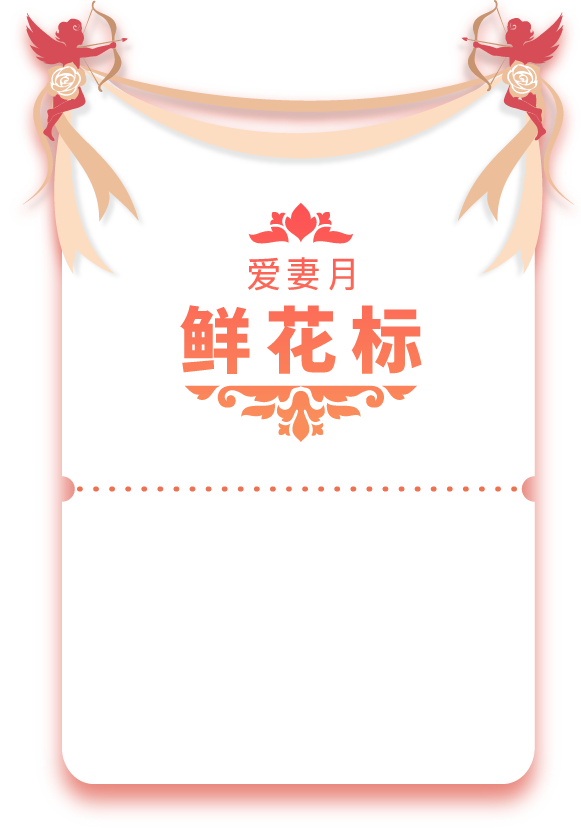
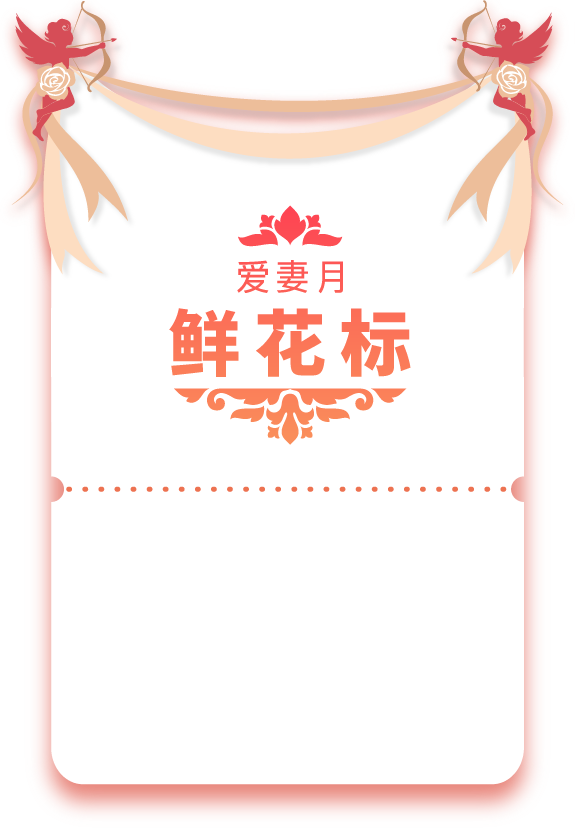
提交7月

Changed region(s): [[0.0, 0.0, 0.9757, 0.9662], [0.2957, 0.2415, 0.7391, 0.5435]]

diff --git a/static/styles/pc_activity/love_on_july.css b/static/styles/pc_activity/love_on_july.css
@@ -1,1 +1,1 @@
-.clear{clear:both}.body_wrap .banner{width:100%;height:464px;background:url("/static/imgs/pc_activity/love_on_july/banner.png") no-repeat center center;display:block}.body_wrap .banner .banner_main{width:1000px;margin:0 auto;display:block;height:464px;padding-top:349px;padding-left:253px}.body_wrap .banner .banner_main .act_time{line-height:22px;color:#e26659;font-size:14px}.body_wrap .section{width:100%}.body_wrap .section .section_main{width:1000px;margin:0 auto;display:block}.body_wrap .section_1{background:#fdf1e7}.body_wrap .section_1 .title_img{width:238px;height:131px;margin:0 auto;display:block;padding:45px 0 34px}.body_wrap .section_1 .section_img{display:block;margin:0 auto;width:52px;height:21px}.body_wrap .section_1 .section_1_text{width:100%;text-align:center;line-height:24px;color:#f26b6b;font-size:14px;padding-bottom:16px}.body_wrap .section_2{width:100%;background:url("/static/imgs/pc_activity/love_on_july/section_2.jpg") no-repeat center center;height:481px;display:block}.body_wrap .section_2 .section_2_text{width:100%;line-height:24px;color:#f26b6b;font-size:14px;padding-top:153px;text-align:center}.body_wrap .section_3{width:100%;background:url("/static/imgs/pc_activity/love_on_july/section_3.jpg") no-repeat center top;padding-bottom:20px}.body_wrap .section_3 .title_img{width:518px;display:block;margin:0 auto}.body_wrap .section_3 .section_3_text1{padding:7px 0 4px;font-size:14px;color:#ef6565;line-height:22px;text-align:center}.body_wrap .section_3 .two_biao{width:518px;margin:0 auto;display:block;height:358px}.body_wrap .section_3 .two_biao .biao{width:242px;display:block;height:358px;padding:115px 41px 0 46px}.body_wrap .section_3 .two_biao .left_biao{float:left;background:url("/static/imgs/pc_activity/love_on_july/section_3_img2.png") no-repeat center center}.body_wrap .section_3 .two_biao .right_biao{float:right;background:url("/static/imgs/pc_activity/love_on_july/section_3_img3.png") no-repeat center center}.body_wrap .section_3 .two_biao .title_text{width:100%;color:#fd5655;font-size:14px;line-height:22px;padding-bottom:90px;text-align:center}.body_wrap .section_3 .two_biao .biao_text{font-size:13px;line-height:20px;color:#ed7251}.body_wrap .section_3 .two_biao .investment_wrap{width:100%;font-size:13px;color:#ed7251;line-height:20px;text-indent:2em}.body_wrap .section_3 .two_biao .investment_wrap span{font-weight:bold}.body_wrap .section_3 .rule_wrap{width:806px;padding:0 28px 0 28px;display:block;margin:0 auto}.body_wrap .section_3 .rule_wrap .title_text{width:100%;color:#e5574c;font-size:14px;line-height:22px}.body_wrap .section_3 .rule_wrap dl{color:#e5574c;font-size:14px;width:100%;position:relative}.body_wrap .section_3 .rule_wrap dl dt{width:20px;position:absolute;left:0;top:0;line-height:20px;display:block}.body_wrap .section_3 .rule_wrap dl dd{padding-left:20px;width:100%;line-height:20px}.body_wrap .section_3 .line{width:518px;height:16px;display:block;margin:20px auto 30px;background:url("/static/imgs/pc_activity/love_on_july/section_3_img4.png") no-repeat center center}.body_wrap .section_3 .section_3_text2{padding:14px 0 20px}.body_wrap .section_3 .act_ranking{width:518px;margin:0 auto;display:block}.body_wrap .section_3 .act_ranking .box{width:100%;display:block;height:166px;padding-bottom:16px;position:relative}.body_wrap .section_3 .act_ranking .box dl{width:111px;display:block;position:absolute;left:68px;top:43px;color:#ef6565;text-align:center}.body_wrap .section_3 .act_ranking .box dl dt{font-size:65px;line-height:60px;font-weight:100;height:65px}.body_wrap .section_3 .act_ranking .box dl dt span{font-size:18px;line-height:60px;padding-left:2px}.body_wrap .section_3 .act_ranking .box dl dd{font-size:13px;line-height:20px}.body_wrap .section_3 .act_ranking .box .act_text{width:158px;position:absolute;left:206px;top:55px;font-size:14px;line-height:20px;text-align:center}.body_wrap .section_3 .act_ranking .box_1{background:url("/static/imgs/pc_activity/love_on_july/section_3_img6.png") no-repeat center center}.body_wrap .section_3 .act_ranking .box_1 .act_text{color:#fb8ba1}.body_wrap .section_3 .act_ranking .box_2{background:url("/static/imgs/pc_activity/love_on_july/section_3_img7.png") no-repeat center center}.body_wrap .section_3 .act_ranking .box_2 .act_text{color:#5a99ff}.body_wrap .section_3 .act_ranking .box_3{background:url("/static/imgs/pc_activity/love_on_july/section_3_img8.png") no-repeat center center}.body_wrap .section_3 .act_ranking .box_3 .act_text{color:#f66;top:73px}.body_wrap .section_3 .now_ranking{width:644px;display:block;margin:0 auto;height:332px;background:url("/static/imgs/pc_activity/love_on_july/section_3_img9.png") no-repeat center center}.body_wrap .section_3 .now_ranking .title_text{width:100%;line-height:36px;color:#fff;font-size:24px;text-align:center;padding-left:7px}.body_wrap .section_3 .now_ranking .act_time{color:#ef6565;font-size:14px;line-height:22px;width:100%;text-align:center;padding-top:10px}.body_wrap .section_3 .now_ranking .now_main{width:100%;padding-left:79px;padding-top:13px}.body_wrap .section_3 .now_ranking .now_main .box{width:165px;float:left;display:block}.body_wrap .section_3 .now_ranking .now_main .box .name_text{width:100%;text-align:center;color:#fff;font-size:18px;line-heihgt:25px}.body_wrap .section_3 .now_ranking .now_main .box img{width:100%;display:block}.body_wrap .section_3 .now_ranking .now_main .box .phone_num{width:100%;text-align:center;color:#fff;font-size:14px;line-heihgt:20px;padding-bottom:12px}.body_wrap .section_3 .now_ranking .now_main .box .money_num{margin:0 auto;height:25px;text-align:center;display:block;width:100%}.body_wrap .section_3 .now_ranking .now_main .box .money_num span{display:inline-block;height:25px;line-height:25px;color:#fff;font-size:14px;padding:0 10px;max-width:165px;min-width:117px;border-radius:15px;overflow:hidden}.body_wrap .section_3 .now_ranking .now_main .box span.money_num1{background:url("/static/imgs/pc_activity/love_on_july/section_3_img13.png") no-repeat center center;background-size:100% 100%}.body_wrap .section_3 .now_ranking .now_main .box span.money_num2{background:url("/static/imgs/pc_activity/love_on_july/section_3_img14.png") no-repeat center center;background-size:100% 100%}.body_wrap .section_3 .now_ranking .now_main .box span.money_num3{background:url("/static/imgs/pc_activity/love_on_july/section_3_img15.png") no-repeat center center;background-size:100% 100%}.body_wrap .section_3 .rule_wrap2{padding:26px 0}.body_wrap .section_3 .investment_wrap{border-left:1px #ff2c50 solid;border-right:1px #fa8e5b solid;width:499px;display:block;margin:0 auto;font-size:0}.body_wrap .section_3 .investment_wrap .investmen_tline{width:100%;height:1px;background:url("/static/imgs/pc_activity/love_on_july/img16_39.png") no-repeat center;background-size:100%;display:block}.body_wrap .section_3 .investment_wrap .box{width:100%;position:relative;height:35px}.body_wrap .section_3 .investment_wrap .box .div{width:50%;line-height:35px;font-size:15px;color:#ef5043;float:left;display:block;height:35px;text-align:center}.body_wrap .section_3 .investment_wrap .box .shu_line{position:absolute;left:50%;top:0;width:1px;height:100%;background:#fa5b52;opacity:0.4}.body_wrap .section_3 .investment_wrap .first_box{background:url("/static/imgs/pc_activity/love_on_july/img16_40.png") repeat-y center;background-size:100%}.body_wrap .section_3 .investment_wrap .first_box .div{color:#fff}.body_wrap .section_3 .rule_wrap3{width:500px;padding:17px 0 26px 0}.body_wrap .section_3 .go_list{width:204px;height:62px;background:url("/static/imgs/pc_activity/love_on_july/section_3_img18.png") no-repeat center center;line-height:60px;display:block;margin:0 auto 20px;text-align:center;font-size:21px;color:#fff;text-space:5px}.body_wrap .section_3 .go_list:hover{opacity:0.8}.body_wrap .section_3 .rule_last{width:100%;line-height:18px;color:#f45151;font-size:12px;text-align:center;padding-bottom:34px}.body_wrap .section_3 .rule_text{color:#e5574c;font-size:14px;line-height:20px}.body_wrap .popup_wrap{width:100%;height:100%;position:fixed;left:0;top:0;z-index:9999;display:none}.body_wrap .popup_wrap .popup_bg{width:100%;height:100%;position:absolute;left:0;top:0;background:#000;opacity:0.4;z-index:2}.body_wrap .popup_wrap .popup_box{width:380px;padding:30px 22px 28px;background:#fff;border-radius:5px;position:absolute;left:50%;top:50%;z-index:3;margin:-86px 0 0 -190px;margin-top:-86px}.body_wrap .popup_wrap .popup_box .popup_main{position:relative;width:100%;height:100%;display:block}.body_wrap .popup_wrap .popup_box .close_ico{position:absolute;right:-12px;top:-12px;width:24px;height:24px;display:block;cursor:pointer}.body_wrap .popup_wrap .popup_box dl{width:100%;text-align:center}.body_wrap .popup_wrap .popup_box dl dt{font-size:18px;line-height:26px;color:#585757}.body_wrap .popup_wrap .popup_box dl dd{font-size:16px;line-height:26px;color:#585757}.body_wrap .popup_wrap .popup_box p.popup_text{text-align:center;font-size:24px;line-height:52px;color:#585757}.body_wrap .popup_wrap .popup_box .popup_button{width:138px;display:block;margin:14px auto 0;text-align:center;line-height:46px;background:#ff891c;border-radius:5px;color:#fff;font-size:20px;cursor:pointer}
+.clear{clear:both}.body_wrap .banner{width:100%;height:464px;background:url("/static/imgs/pc_activity/love_on_july/banner.png") no-repeat center center;display:block}.body_wrap .banner .banner_main{width:1000px;margin:0 auto;display:block;height:464px;padding-top:349px;padding-left:253px}.body_wrap .banner .banner_main .act_time{line-height:22px;color:#e26659;font-size:14px}.body_wrap .section{width:100%}.body_wrap .section .section_main{width:1000px;margin:0 auto;display:block}.body_wrap .section_1{background:#fdf1e7}.body_wrap .section_1 .title_img{width:238px;height:131px;margin:0 auto;display:block;padding:45px 0 34px}.body_wrap .section_1 .section_img{display:block;margin:0 auto;width:52px;height:21px}.body_wrap .section_1 .section_1_text{width:100%;text-align:center;line-height:24px;color:#f26b6b;font-size:14px;padding-bottom:16px}.body_wrap .section_2{width:100%;background:url("/static/imgs/pc_activity/love_on_july/section_2.jpg") no-repeat center center;height:481px;display:block}.body_wrap .section_2 .section_2_text{width:100%;line-height:24px;color:#f26b6b;font-size:14px;padding-top:153px;text-align:center}.body_wrap .section_3{width:100%;background:url("/static/imgs/pc_activity/love_on_july/section_3.jpg") no-repeat center top;padding-bottom:20px}.body_wrap .section_3 .title_img{width:518px;display:block;margin:0 auto}.body_wrap .section_3 .section_3_text1{padding:7px 0 4px;font-size:14px;color:#ef6565;line-height:22px;text-align:center}.body_wrap .section_3 .two_biao{width:518px;margin:0 auto;display:block;height:358px}.body_wrap .section_3 .two_biao .biao{width:242px;display:block;height:358px;padding:115px 41px 0 46px}.body_wrap .section_3 .two_biao .left_biao{float:left;background:url("/static/imgs/pc_activity/love_on_july/section_3_img2.png") no-repeat center center}.body_wrap .section_3 .two_biao .right_biao{float:right;background:url("/static/imgs/pc_activity/love_on_july/section_3_img3.png") no-repeat center center;position:relative}.body_wrap .section_3 .two_biao .right_biao span.wenhao{width:20px;height:20px;display:block;position:absolute;right:0;bottom:33px;z-index:2;background:url("/static/imgs/pc_activity/love_on_july/wenhao.png") no-repeat center center;cursor:pointer}.body_wrap .section_3 .two_biao .right_biao span.wenhao:hover{opacity:0.8}.body_wrap .section_3 .two_biao .title_text{width:100%;color:#fd5655;font-size:14px;line-height:22px;padding-bottom:90px;text-align:center}.body_wrap .section_3 .two_biao .biao_text{font-size:13px;line-height:20px;color:#ed7251}.body_wrap .section_3 .two_biao .investment_wrap{width:100%;font-size:13px;color:#ed7251;line-height:20px;text-indent:2em}.body_wrap .section_3 .two_biao .investment_wrap span{font-weight:bold}.body_wrap .section_3 .rule_wrap{width:806px;padding:0 28px 0 28px;display:block;margin:0 auto}.body_wrap .section_3 .rule_wrap .title_text{width:100%;color:#e5574c;font-size:14px;line-height:22px}.body_wrap .section_3 .rule_wrap dl{color:#e5574c;font-size:14px;width:100%;position:relative}.body_wrap .section_3 .rule_wrap dl dt{width:20px;position:absolute;left:0;top:0;line-height:20px;display:block}.body_wrap .section_3 .rule_wrap dl dd{padding-left:20px;width:100%;line-height:20px}.body_wrap .section_3 .line{width:518px;height:16px;display:block;margin:20px auto 30px;background:url("/static/imgs/pc_activity/love_on_july/section_3_img4.png") no-repeat center center}.body_wrap .section_3 .section_3_text2{padding:14px 0 20px}.body_wrap .section_3 .act_ranking{width:518px;margin:0 auto;display:block}.body_wrap .section_3 .act_ranking .box{width:100%;display:block;height:166px;padding-bottom:16px;position:relative}.body_wrap .section_3 .act_ranking .box dl{width:111px;display:block;position:absolute;left:68px;top:43px;color:#ef6565;text-align:center}.body_wrap .section_3 .act_ranking .box dl dt{font-size:65px;line-height:60px;font-weight:100;height:65px}.body_wrap .section_3 .act_ranking .box dl dt span{font-size:18px;line-height:60px;padding-left:2px}.body_wrap .section_3 .act_ranking .box dl dd{font-size:13px;line-height:20px}.body_wrap .section_3 .act_ranking .box .act_text{width:158px;position:absolute;left:206px;top:55px;font-size:14px;line-height:20px;text-align:center}.body_wrap .section_3 .act_ranking .box_1{background:url("/static/imgs/pc_activity/love_on_july/section_3_img6.png") no-repeat center center}.body_wrap .section_3 .act_ranking .box_1 .act_text{color:#fb8ba1}.body_wrap .section_3 .act_ranking .box_2{background:url("/static/imgs/pc_activity/love_on_july/section_3_img7.png") no-repeat center center}.body_wrap .section_3 .act_ranking .box_2 .act_text{color:#5a99ff}.body_wrap .section_3 .act_ranking .box_3{background:url("/static/imgs/pc_activity/love_on_july/section_3_img8.png") no-repeat center center}.body_wrap .section_3 .act_ranking .box_3 .act_text{color:#f66;top:73px}.body_wrap .section_3 .now_ranking{width:644px;display:block;margin:0 auto;height:332px;background:url("/static/imgs/pc_activity/love_on_july/section_3_img9.png") no-repeat center center}.body_wrap .section_3 .now_ranking .title_text{width:100%;line-height:36px;color:#fff;font-size:24px;text-align:center;padding-left:7px}.body_wrap .section_3 .now_ranking .act_time{color:#ef6565;font-size:14px;line-height:22px;width:100%;text-align:center;padding-top:10px}.body_wrap .section_3 .now_ranking .now_main{width:100%;padding-left:79px;padding-top:13px}.body_wrap .section_3 .now_ranking .now_main .box{width:165px;float:left;display:block}.body_wrap .section_3 .now_ranking .now_main .box .name_text{width:100%;text-align:center;color:#fff;font-size:18px;line-heihgt:25px}.body_wrap .section_3 .now_ranking .now_main .box img{width:100%;display:block}.body_wrap .section_3 .now_ranking .now_main .box .phone_num{width:100%;text-align:center;color:#fff;font-size:14px;line-heihgt:20px;padding-bottom:12px}.body_wrap .section_3 .now_ranking .now_main .box .money_num{margin:0 auto;height:25px;text-align:center;display:block;width:100%}.body_wrap .section_3 .now_ranking .now_main .box .money_num span{display:inline-block;height:25px;line-height:25px;color:#fff;font-size:14px;padding:0 10px;max-width:165px;min-width:117px;border-radius:15px;overflow:hidden}.body_wrap .section_3 .now_ranking .now_main .box span.money_num1{background:url("/static/imgs/pc_activity/love_on_july/section_3_img13.png") no-repeat center center;background-size:100% 100%}.body_wrap .section_3 .now_ranking .now_main .box span.money_num2{background:url("/static/imgs/pc_activity/love_on_july/section_3_img14.png") no-repeat center center;background-size:100% 100%}.body_wrap .section_3 .now_ranking .now_main .box span.money_num3{background:url("/static/imgs/pc_activity/love_on_july/section_3_img15.png") no-repeat center center;background-size:100% 100%}.body_wrap .section_3 .rule_wrap2{padding:26px 0}.body_wrap .section_3 .investment_wrap{border-left:1px #ff2c50 solid;border-right:1px #fa8e5b solid;width:499px;display:block;margin:0 auto;font-size:0}.body_wrap .section_3 .investment_wrap .investmen_tline{width:100%;height:1px;background:url("/static/imgs/pc_activity/love_on_july/img16_39.png") no-repeat center;background-size:100%;display:block}.body_wrap .section_3 .investment_wrap .box{width:100%;position:relative;height:35px}.body_wrap .section_3 .investment_wrap .box .div{width:50%;line-height:35px;font-size:15px;color:#ef5043;float:left;display:block;height:35px;text-align:center}.body_wrap .section_3 .investment_wrap .box .shu_line{position:absolute;left:50%;top:0;width:1px;height:100%;background:#fa5b52;opacity:0.4}.body_wrap .section_3 .investment_wrap .first_box{background:url("/static/imgs/pc_activity/love_on_july/img16_40.png") repeat-y center;background-size:100%}.body_wrap .section_3 .investment_wrap .first_box .div{color:#fff}.body_wrap .section_3 .rule_wrap3{width:500px;padding:17px 0 26px 0}.body_wrap .section_3 .go_list{width:204px;height:62px;background:url("/static/imgs/pc_activity/love_on_july/section_3_img18.png") no-repeat center center;line-height:60px;display:block;margin:0 auto 20px;text-align:center;font-size:21px;color:#fff;text-space:5px}.body_wrap .section_3 .go_list:hover{opacity:0.8}.body_wrap .section_3 .rule_last{width:100%;line-height:18px;color:#f45151;font-size:12px;text-align:center;padding-bottom:34px}.body_wrap .section_3 .rule_text{color:#e5574c;font-size:14px;line-height:20px}.body_wrap .popup_wrap{position:fixed;left:0;top:0;width:100%;height:100%;z-index:999;display:none;background:rgba(0,0,0,0.7)}.body_wrap .popup_wrap .main{width:600px;position:absolute;left:50%;top:50%;margin:-145px 0 0 -300px;float:none;background:#fff;border-radius:20px;z-index:99}.body_wrap .popup_wrap .main .textairport{width:100%;padding:30px 20px}.body_wrap .popup_wrap .main .textairport p{padding-bottom:20px;line-height:30px;font-size:24px;text-align:center;color:#e5574c}.body_wrap .popup_wrap .main .textairport dl{width:100%;position:relative;display:inline-block}.body_wrap .popup_wrap .main .textairport dl dt{line-height:20px;font-size:14px;width:20px;position:absolute;left:0;top:0;color:#e5574c}.body_wrap .popup_wrap .main .textairport dl dd{line-height:20px;font-size:14px;padding-left:20px;color:#e5574c;width:100%}.body_wrap .popup_wrap .main .popup_button{margin:0 auto;width:100px;height:30px;line-height:30px;text-align:center;display:block;background:#ff5252;border-radius:10px;color:#fff;font-size:18px;cursor:pointer}.body_wrap .popup_wrap .main .popup_button:hover{opacity:0.9}.body_wrap .popup_wrap .main .close_popup{position:absolute;right:10px;top:10px;z-index:999;width:20px;height:20px;display:block;cursor:pointer}.body_wrap .popup_wrap .main .close_popup:hover{opacity:0.9}

diff --git a/static/styles/mobile_activity/app_love_on_july.css b/static/styles/mobile_activity/app_love_on_july.css
@@ -1,1 +1,1 @@
-.body_wrap{font-size:0;width:100%;overflow:hidden;position:relative}.body_wrap .banner{width:100%;display:block}.body_wrap .act_time1{width:55%;text-align:center;line-height:0.75rem;color:#f26b6b;font-size:0.6rem;margin:0.4rem auto 1.375rem;display:block;background:url("/static/imgs/mobile_activity/app_love_on_july/img_2_04.png") no-repeat center center;background-size:100%}.body_wrap .title_img{width:100%;display:block}.body_wrap .title_img1{padding:1.35rem 0}.body_wrap .juanshouyu{width:100%;text-align:center;color:#f26b6b;font-size:0.6rem;line-height:1rem;padding:1.3rem 0 1.1rem;max-height:9999rem}.body_wrap .line{width:100%;display:block}.body_wrap .xin{width:100%;display:block;padding-top:0.8rem}.body_wrap .section_wrap{width:100%;background:url("/static/imgs/mobile_activity/app_love_on_july/bg_13.jpg") repeat-x;background-size:100% 100%;display:inline-block}.body_wrap .section_wrap .title_img{width:100%;display:block}.body_wrap .section_wrap .title_img1{padding-bottom:0.95rem}.body_wrap .section_wrap .title_text{font-size:0.75rem;color:#ef6565;line-height:0.9rem;text-align:center;width:100%;padding-bottom:0.375rem}.body_wrap .section_wrap .pagination{margin-top:0.5rem;position:relative;bottom:0;text-align:center}.body_wrap .section_wrap .swiper-slide{text-align:center;font-size:18px;width:90%}.body_wrap .section_wrap .swiper-slide img{width:100%;display:block}.body_wrap .section_wrap .swiper-slide .biao_text{position:absolute;left:15%;width:70%;top:64%;font-size:0.75rem;color:#ed7251;line-height:1.3rem;text-indent:2em;text-align:left}.body_wrap .section_wrap .swiper-slide .biao_text span{font-weight:bold}.body_wrap .section_wrap .swiper-pagination-bullet{width:0.4rem;height:0.4rem;background:none;border-radius:50%;border:2px #ef593c solid;opacity:1;margin:0 0.35rem}.body_wrap .section_wrap .swiper-pagination-bullet-active{width:0.4rem;height:0.4rem;background:#ef593c}.body_wrap .section_wrap .rule_wrap{width:100%;padding:0.65rem 5% 0;display:block;margin:0 auto}.body_wrap .section_wrap .rule_wrap .title_text{width:100%;color:#f43b3b;font-size:0.675rem;line-height:1.1rem;text-align:left;padding-bottom:0;max-height:9999rem}.body_wrap .section_wrap .rule_wrap dl{color:#e5574c;font-size:0.675rem;width:100%;position:relative}.body_wrap .section_wrap .rule_wrap dl dt{width:1.5em;position:absolute;left:0;top:0;line-height:1.1rem;display:block;max-height:9999rem}.body_wrap .section_wrap .rule_wrap dl dd{padding-left:1.5em;width:100%;line-height:1.1rem;max-height:9999rem}.body_wrap .section_wrap .line{padding:1.2rem 0 2.5rem}.body_wrap .section_wrap .title_text2{padding:1.05rem 0 0.95rem}.body_wrap .section_wrap .act_ranking{width:100%;display:block;padding-bottom:1.375rem}.body_wrap .section_wrap .now_ranking{width:100%;display:block}.body_wrap .section_wrap .now_ranking .now_ranking_top{width:100%;display:block}.body_wrap .section_wrap .now_ranking .now_ranking_main{width:100%;display:inline-block;background:url("/static/imgs/mobile_activity/app_love_on_july/img12_10.png") center;background-size:100% 100%}.body_wrap .section_wrap .now_ranking .now_ranking_main .act_time{text-align:center;font-size:0.6rem;color:#ef6565;line-height:0.75rem;width:100%;padding-bottom:1.8rem}.body_wrap .section_wrap .now_ranking .now_ranking_main .box_wrap{width:96%;display:block;margin:0 auto;padding-bottom:0.65rem}.body_wrap .section_wrap .now_ranking .now_ranking_main .box_wrap .box{width:33%;display:block;float:left}.body_wrap .section_wrap .now_ranking .now_ranking_main .box_wrap .name_text{width:100%;font-size:0.65rem;line-height:0.85rem;color:#fff;text-align:center}.body_wrap .section_wrap .now_ranking .now_ranking_main .box_wrap img{width:72%;margin:0 auto;display:block;padding:0.35rem 0 0.45rem}.body_wrap .section_wrap .now_ranking .now_ranking_main .box_wrap .phone_num{width:100%;text-align:center;line-height:0.65rem;color:#fff;font-size:0.6rem;padding-bottom:0.5rem}.body_wrap .section_wrap .now_ranking .now_ranking_main .box_wrap .money_num{font-size:0.55rem;height:0.9rem;line-height:0.85rem;text-align:center;display:block;width:83%;margin:0 auto;color:#fff}.body_wrap .section_wrap .now_ranking .now_ranking_main .box_wrap .money_num1{background:url("/static/imgs/mobile_activity/app_love_on_july/img12_23.png") no-repeat center;background-size:100%}.body_wrap .section_wrap .now_ranking .now_ranking_main .box_wrap .money_num2{background:url("/static/imgs/mobile_activity/app_love_on_july/img12_25.png") no-repeat center;background-size:100%}.body_wrap .section_wrap .now_ranking .now_ranking_main .box_wrap .money_num3{background:url("/static/imgs/mobile_activity/app_love_on_july/img12_27.png") no-repeat center;background-size:100%}.body_wrap .section_wrap .now_ranking .now_ranking_bottom{width:100%;display:block}.body_wrap .section_wrap .investment_wrap{border-left:1px #ff2c50 solid;border-right:1px #ff2c50 solid;border-top:1px #ff2c50 solid;width:89.3%;display:block;margin:0 auto}.body_wrap .section_wrap .investment_wrap .investmen_tline{width:100%;height:0.025rem;background:url("/static/imgs/mobile_activity/app_love_on_july/img16_39.png") center;background-size:100% 100%;clear:both;display:none}.body_wrap .section_wrap .investment_wrap .box{width:100%;display:inline-block;position:relative;border-bottom:1px #ff2c50 solid}.body_wrap .section_wrap .investment_wrap .box .div{width:50%;line-height:1.5rem;font-size:0.6rem;color:#ef5043;float:left;display:block;height:1.5rem;text-align:center}.body_wrap .section_wrap .investment_wrap .box .shu_line{position:absolute;left:50%;top:0;width:2px;height:100%;background:#fa5b52;opacity:0.4}.body_wrap .section_wrap .investment_wrap .first_box{background:url("/static/imgs/mobile_activity/app_love_on_july/img16_40.png") repeat-y center;background-size:100%}.body_wrap .section_wrap .investment_wrap .first_box .div{color:#fff}.body_wrap .section_wrap .rule_text{color:#e5574c;font-size:0.675rem;width:100%;line-height:1.1rem}.body_wrap .section_wrap .href_link{width:52.4%;display:block;margin:0 auto}.body_wrap .section_wrap .href_link img{width:100%;display:block}.body_wrap .section_wrap .line1{padding:1.2rem 0 1.2rem}.body_wrap .section_wrap .last_rule{width:100%;text-align:center;color:#e5574c;font-size:0.675rem;line-height:0.75rem;padding:0.625rem;max-height:9999rem}
+.body_wrap{font-size:0;width:100%;overflow:hidden;position:relative}.body_wrap .banner{width:100%;display:block}.body_wrap .act_time1{width:55%;text-align:center;line-height:0.75rem;color:#f26b6b;font-size:0.6rem;margin:0.4rem auto 1.375rem;display:block;background:url("/static/imgs/mobile_activity/app_love_on_july/img_2_04.png") no-repeat center center;background-size:100%}.body_wrap .title_img{width:100%;display:block}.body_wrap .title_img1{padding:1.35rem 0}.body_wrap .juanshouyu{width:100%;text-align:center;color:#f26b6b;font-size:0.6rem;line-height:1rem;padding:1.3rem 0 1.1rem;max-height:9999rem}.body_wrap .line{width:100%;display:block}.body_wrap .xin{width:100%;display:block;padding-top:0.8rem}.body_wrap .section_wrap{width:100%;background:url("/static/imgs/mobile_activity/app_love_on_july/bg_13.jpg") repeat-x;background-size:100% 100%;display:inline-block}.body_wrap .section_wrap .title_img{width:100%;display:block}.body_wrap .section_wrap .title_img1{padding-bottom:0.95rem}.body_wrap .section_wrap .title_text{font-size:0.75rem;color:#ef6565;line-height:0.9rem;text-align:center;width:100%;padding-bottom:0.375rem}.body_wrap .section_wrap .pagination{margin-top:0.5rem;position:relative;bottom:0;text-align:center}.body_wrap .section_wrap .swiper-slide{text-align:center;font-size:18px;width:90%}.body_wrap .section_wrap .swiper-slide img.slide_img{width:100%;display:block}.body_wrap .section_wrap .swiper-slide .biao_text{position:absolute;left:15%;width:70%;top:64%;font-size:0.75rem;color:#ed7251;line-height:1.3rem;text-indent:2em;text-align:left}.body_wrap .section_wrap .swiper-slide .biao_text span{font-weight:bold}.body_wrap .section_wrap .swiper-slide img.wenhao{width:1rem;height:1rem;display:block;position:absolute;right:-0.1rem;bottom:1rem;z-index:2}.body_wrap .section_wrap .swiper-pagination-bullet{width:0.4rem;height:0.4rem;background:none;border-radius:50%;border:2px #ef593c solid;opacity:1;margin:0 0.35rem}.body_wrap .section_wrap .swiper-pagination-bullet-active{width:0.4rem;height:0.4rem;background:#ef593c}.body_wrap .section_wrap .rule_wrap{width:100%;padding:0.65rem 5% 0;display:block;margin:0 auto}.body_wrap .section_wrap .rule_wrap .title_text{width:100%;color:#f43b3b;font-size:0.675rem;line-height:1.1rem;text-align:left;padding-bottom:0;max-height:9999rem}.body_wrap .section_wrap .rule_wrap dl{color:#e5574c;font-size:0.675rem;width:100%;position:relative}.body_wrap .section_wrap .rule_wrap dl dt{width:1.5em;position:absolute;left:0;top:0;line-height:1.1rem;display:block;max-height:9999rem}.body_wrap .section_wrap .rule_wrap dl dd{padding-left:1.5em;width:100%;line-height:1.1rem;max-height:9999rem}.body_wrap .section_wrap .line{padding:1.2rem 0 2.5rem}.body_wrap .section_wrap .title_text2{padding:1.05rem 0 0.95rem}.body_wrap .section_wrap .act_ranking{width:100%;display:block;padding-bottom:1.375rem}.body_wrap .section_wrap .now_ranking{width:100%;display:block}.body_wrap .section_wrap .now_ranking .now_ranking_top{width:100%;display:block}.body_wrap .section_wrap .now_ranking .now_ranking_main{width:100%;display:inline-block;background:url("/static/imgs/mobile_activity/app_love_on_july/img12_10.png") center;background-size:100% 100%}.body_wrap .section_wrap .now_ranking .now_ranking_main .act_time{text-align:center;font-size:0.6rem;color:#ef6565;line-height:0.75rem;width:100%;padding-bottom:1.8rem}.body_wrap .section_wrap .now_ranking .now_ranking_main .box_wrap{width:96%;display:block;margin:0 auto;padding-bottom:0.65rem}.body_wrap .section_wrap .now_ranking .now_ranking_main .box_wrap .box{width:33%;display:block;float:left}.body_wrap .section_wrap .now_ranking .now_ranking_main .box_wrap .name_text{width:100%;font-size:0.65rem;line-height:0.85rem;color:#fff;text-align:center}.body_wrap .section_wrap .now_ranking .now_ranking_main .box_wrap img{width:72%;margin:0 auto;display:block;padding:0.35rem 0 0.45rem}.body_wrap .section_wrap .now_ranking .now_ranking_main .box_wrap .phone_num{width:100%;text-align:center;line-height:0.65rem;color:#fff;font-size:0.6rem;padding-bottom:0.5rem}.body_wrap .section_wrap .now_ranking .now_ranking_main .box_wrap .money_num{font-size:0.55rem;height:0.9rem;line-height:0.85rem;text-align:center;display:block;width:83%;margin:0 auto;color:#fff}.body_wrap .section_wrap .now_ranking .now_ranking_main .box_wrap .money_num1{background:url("/static/imgs/mobile_activity/app_love_on_july/img12_23.png") no-repeat center;background-size:100%}.body_wrap .section_wrap .now_ranking .now_ranking_main .box_wrap .money_num2{background:url("/static/imgs/mobile_activity/app_love_on_july/img12_25.png") no-repeat center;background-size:100%}.body_wrap .section_wrap .now_ranking .now_ranking_main .box_wrap .money_num3{background:url("/static/imgs/mobile_activity/app_love_on_july/img12_27.png") no-repeat center;background-size:100%}.body_wrap .section_wrap .now_ranking .now_ranking_bottom{width:100%;display:block}.body_wrap .section_wrap .investment_wrap{border-left:1px #ff2c50 solid;border-right:1px #ff2c50 solid;border-top:1px #ff2c50 solid;width:89.3%;display:block;margin:0 auto}.body_wrap .section_wrap .investment_wrap .investmen_tline{width:100%;height:0.025rem;background:url("/static/imgs/mobile_activity/app_love_on_july/img16_39.png") center;background-size:100% 100%;clear:both;display:none}.body_wrap .section_wrap .investment_wrap .box{width:100%;display:inline-block;position:relative;border-bottom:1px #ff2c50 solid}.body_wrap .section_wrap .investment_wrap .box .div{width:50%;line-height:1.5rem;font-size:0.6rem;color:#ef5043;float:left;display:block;height:1.5rem;text-align:center}.body_wrap .section_wrap .investment_wrap .box .shu_line{position:absolute;left:50%;top:0;width:2px;height:100%;background:#fa5b52;opacity:0.4}.body_wrap .section_wrap .investment_wrap .first_box{background:url("/static/imgs/mobile_activity/app_love_on_july/img16_40.png") repeat-y center;background-size:100%}.body_wrap .section_wrap .investment_wrap .first_box .div{color:#fff}.body_wrap .section_wrap .rule_text{color:#e5574c;font-size:0.675rem;width:100%;line-height:1.1rem}.body_wrap .section_wrap .href_link{width:52.4%;display:block;margin:0 auto}.body_wrap .section_wrap .href_link img{width:100%;display:block}.body_wrap .section_wrap .line1{padding:1.2rem 0 1.2rem}.body_wrap .section_wrap .last_rule{width:100%;text-align:center;color:#e5574c;font-size:0.675rem;line-height:0.75rem;padding:0.625rem;max-height:9999rem}.body_wrap .popup_wrap{position:fixed;left:0;top:0;width:100%;height:100%;z-index:999;display:none;background:rgba(0,0,0,0.7)}.body_wrap .popup_wrap .main{width:90%;position:absolute;left:50%;top:50%;margin:-9rem 0 0 -45%;float:none;background:#fff;border-radius:0.5rem;z-index:99}.body_wrap .popup_wrap .main .textairport{width:100%;padding:0.7rem 0.5rem}.body_wrap .popup_wrap .main .textairport p{padding-bottom:0.5rem;line-height:1.2rem;font-size:1rem;text-align:center;color:#e5574c}.body_wrap .popup_wrap .main .textairport dl{width:100%;position:relative;display:inline-block}.body_wrap .popup_wrap .main .textairport dl dt{line-height:0.9rem;font-size:0.7rem;width:1.5em;position:absolute;left:0;top:0;color:#e5574c}.body_wrap .popup_wrap .main .textairport dl dd{line-height:0.9rem;font-size:0.7rem;padding-left:1.5em;color:#e5574c;width:100%}.body_wrap .popup_wrap .main .popup_button{margin:0 auto;width:100px;height:30px;line-height:30px;text-align:center;display:block;background:#ff5252;border-radius:10px;color:#fff;font-size:18px;cursor:pointer}.body_wrap .popup_wrap .main .popup_button:hover{opacity:0.9}.body_wrap .popup_wrap .main .close_popup{position:absolute;right:0.3rem;top:0.3rem;z-index:999;width:1rem;height:1rem;display:block;cursor:pointer}.body_wrap .popup_wrap .main .close_popup:hover{opacity:0.9}

diff --git a/static/scss/pc_activity/love_on_july.sass b/static/scss/pc_activity/love_on_july.sass
@@ -89,6 +89,20 @@
       .right_biao
         float: right
         background: url("/static/imgs/pc_activity/love_on_july/section_3_img3.png") no-repeat center center
+        position: relative
+        span.wenhao
+          width: 20px
+          height: 20px
+          display: block
+          position: absolute
+          right: 0
+          bottom: 33px
+          z-index: 2
+          background: url("/static/imgs/pc_activity/love_on_july/wenhao.png") no-repeat center center
+          cursor: pointer
+        span.wenhao:hover
+          opacity: 0.8
+
       .title_text
         width: 100%
         color: #fd5655
@@ -344,78 +358,74 @@
       line-height: 20px
 
   .popup_wrap
-    width: 100%
-    height: 100%
     position: fixed
     left: 0
     top: 0
-    z-index: 9999
+    width: 100%
+    height: 100%
+    z-index: 999
     display: none
-    .popup_bg
-      width: 100%
-      height: 100%
-      position: absolute
-      left: 0
-      top: 0
-      background: #000000
-      opacity: 0.4
-      z-index: 2
-    .popup_box
-      width: 380px
-      padding: 30px 22px 28px
-
-      background: #fff
-      border-radius: 5px
+    background: rgba(0,0,0,0.7)
+    .main
+      width: 600px
       position: absolute
       left: 50%
       top: 50%
-      z-index: 3
-      margin: -86px 0 0 -190px
-
-      margin-top: -86px
-      .popup_main
-        position: relative
+      margin: -145px 0 0 -300px
+      float: none
+      background: #fff
+      border-radius: 20px
+      z-index: 99
+      .textairport
         width: 100%
-        height: 100%
-        display: block
-      .close_ico
-        position: absolute
-        right: -12px
-        top: -12px
-        width: 24px
-        height: 24px
-        display: block
-        cursor: pointer
-
-      dl
-        width: 100%
-        text-align: center
-        dt
-          font-size: 18px
-          line-height: 26px
-          color: #585757
-        dd
-          font-size: 16px
-
-          line-height: 26px
-          color: #585757
-      p.popup_text
-        text-align: center
-        font-size: 24px
-        line-height: 52px
-        color: #585757
+        padding: 30px 20px
+        p
+          padding-bottom: 20px
+          line-height: 30px
+          font-size: 24px
+          text-align: center
+          color: #e5574c
+        dl
+          width: 100%
+          position: relative
+          display: inline-block
+          dt
+            line-height: 20px
+            font-size: 14px
+            width: 20px
+            position: absolute
+            left: 0
+            top: 0
+            color: #e5574c
+          dd
+            line-height: 20px
+            font-size: 14px
+            padding-left: 20px
+            color: #e5574c
+            width: 100%
 
       .popup_button
-        width: 138px
-        display: block
-        margin: 14px auto 0
+        margin: 0 auto
+        width: 100px
+        height: 30px
+        line-height: 30px
         text-align: center
-        line-height: 46px
-        background: #FF891C
-        border-radius: 5px
+        display: block
+        background: #ff5252
+        border-radius: 10px
         color: #fff
-        font-size: 20px
+        font-size: 18px
         cursor: pointer
-
-
-
+      .popup_button:hover
+        opacity: 0.9
+      .close_popup
+        position: absolute
+        right: 10px
+        top: 10px
+        z-index: 999
+        width: 20px
+        height: 20px
+        display: block
+        cursor: pointer
+      .close_popup:hover
+        opacity: 0.9

diff --git a/static/scss/mobile_activity/app_love_on_july.sass b/static/scss/mobile_activity/app_love_on_july.sass
@@ -63,7 +63,7 @@
       text-align: center
       font-size: 18px
       width: 90%
-      img
+      img.slide_img
         width: 100%
         display: block
       .biao_text
@@ -78,6 +78,14 @@
         text-align: left
         span
           font-weight: bold
+      img.wenhao
+        width: 1rem
+        height: 1rem
+        display: block
+        position: absolute
+        right: -0.1rem
+        bottom: 1rem
+        z-index: 2
     .swiper-pagination-bullet
       width: 0.4rem
       height: 0.4rem
@@ -261,3 +269,76 @@
       line-height: 0.75rem
       padding: 0.625rem
       max-height: 9999rem
+  .popup_wrap
+    position: fixed
+    left: 0
+    top: 0
+    width: 100%
+    height: 100%
+    z-index: 999
+    display: none
+    background: rgba(0,0,0,0.7)
+    .main
+      width: 90%
+      position: absolute
+      left: 50%
+      top: 50%
+      margin: -9rem 0 0 -45%
+      float: none
+      background: #fff
+      border-radius: 0.5rem
+      z-index: 99
+      .textairport
+        width: 100%
+        padding: 0.7rem 0.5rem
+        p
+          padding-bottom: 0.5rem
+          line-height: 1.2rem
+          font-size: 1rem
+          text-align: center
+          color: #e5574c
+
+        dl
+          width: 100%
+          position: relative
+          display: inline-block
+          dt
+            line-height: 0.9rem
+            font-size: 0.7rem
+            width: 1.5em
+            position: absolute
+            left: 0
+            top: 0
+            color: #e5574c
+          dd
+            line-height: 0.9rem
+            font-size: 0.7rem
+            padding-left: 1.5em
+            color: #e5574c
+            width: 100%
+
+      .popup_button
+        margin: 0 auto
+        width: 100px
+        height: 30px
+        line-height: 30px
+        text-align: center
+        display: block
+        background: #ff5252
+        border-radius: 10px
+        color: #fff
+        font-size: 18px
+        cursor: pointer
+      .popup_button:hover
+        opacity: 0.9
+      .close_popup
+        position: absolute
+        right: 0.3rem
+        top: 0.3rem
+        z-index: 999
+        width: 1rem
+        height: 1rem
+        display: block
+        cursor: pointer
+      .close_popup:hover
+        opacity: 0.9

diff --git a/static/js/love_on_july.js b/static/js/love_on_july.js
@@ -120,6 +120,17 @@
         }
 
         $('#act_time').text('截止 '+nian+'.'+bu_ling(yue)+'.'+bu_ling(ri)+' '+bu_ling(shi)+':'+bu_ling(fen)+'');
+
+        $('.wenhao').click(function(){
+            $('.popup_wrap').show();
+        });
+        $('.popup_wrap .main .close_popup').click(function(){
+            $('.popup_wrap').hide();
+        });
+
+
         })
+
+
 
 }).call(this);

diff --git a/static/scripts/mobile_activity/app_love_on_july.js b/static/scripts/mobile_activity/app_love_on_july.js
@@ -400,5 +400,10 @@ var Zepto=function(){function L(t){return null==t?String(t):j[S.call(t)]||"objec
 
 	$('#act_time').text('截止 '+nian+'.'+bu_ling(yue)+'.'+bu_ling(ri)+' '+bu_ling(shi)+':'+bu_ling(fen)+'');
 
-
+	$('.wenhao').click(function(){
+		$('.popup_wrap').show();
+	});
+	$('.popup_wrap .main .close_popup').click(function(){
+		$('.popup_wrap').hide();
+	});
 })(org);

diff --git a/static/src/mobile_activity/app_love_on_july.js b/static/src/mobile_activity/app_love_on_july.js
@@ -181,5 +181,10 @@
 
 	$('#act_time').text('截止 '+nian+'.'+bu_ling(yue)+'.'+bu_ling(ri)+' '+bu_ling(shi)+':'+bu_ling(fen)+'');
 
-
+	$('.wenhao').click(function(){
+		$('.popup_wrap').show();
+	});
+	$('.popup_wrap .main .close_popup').click(function(){
+		$('.popup_wrap').hide();
+	});
 })(org);
